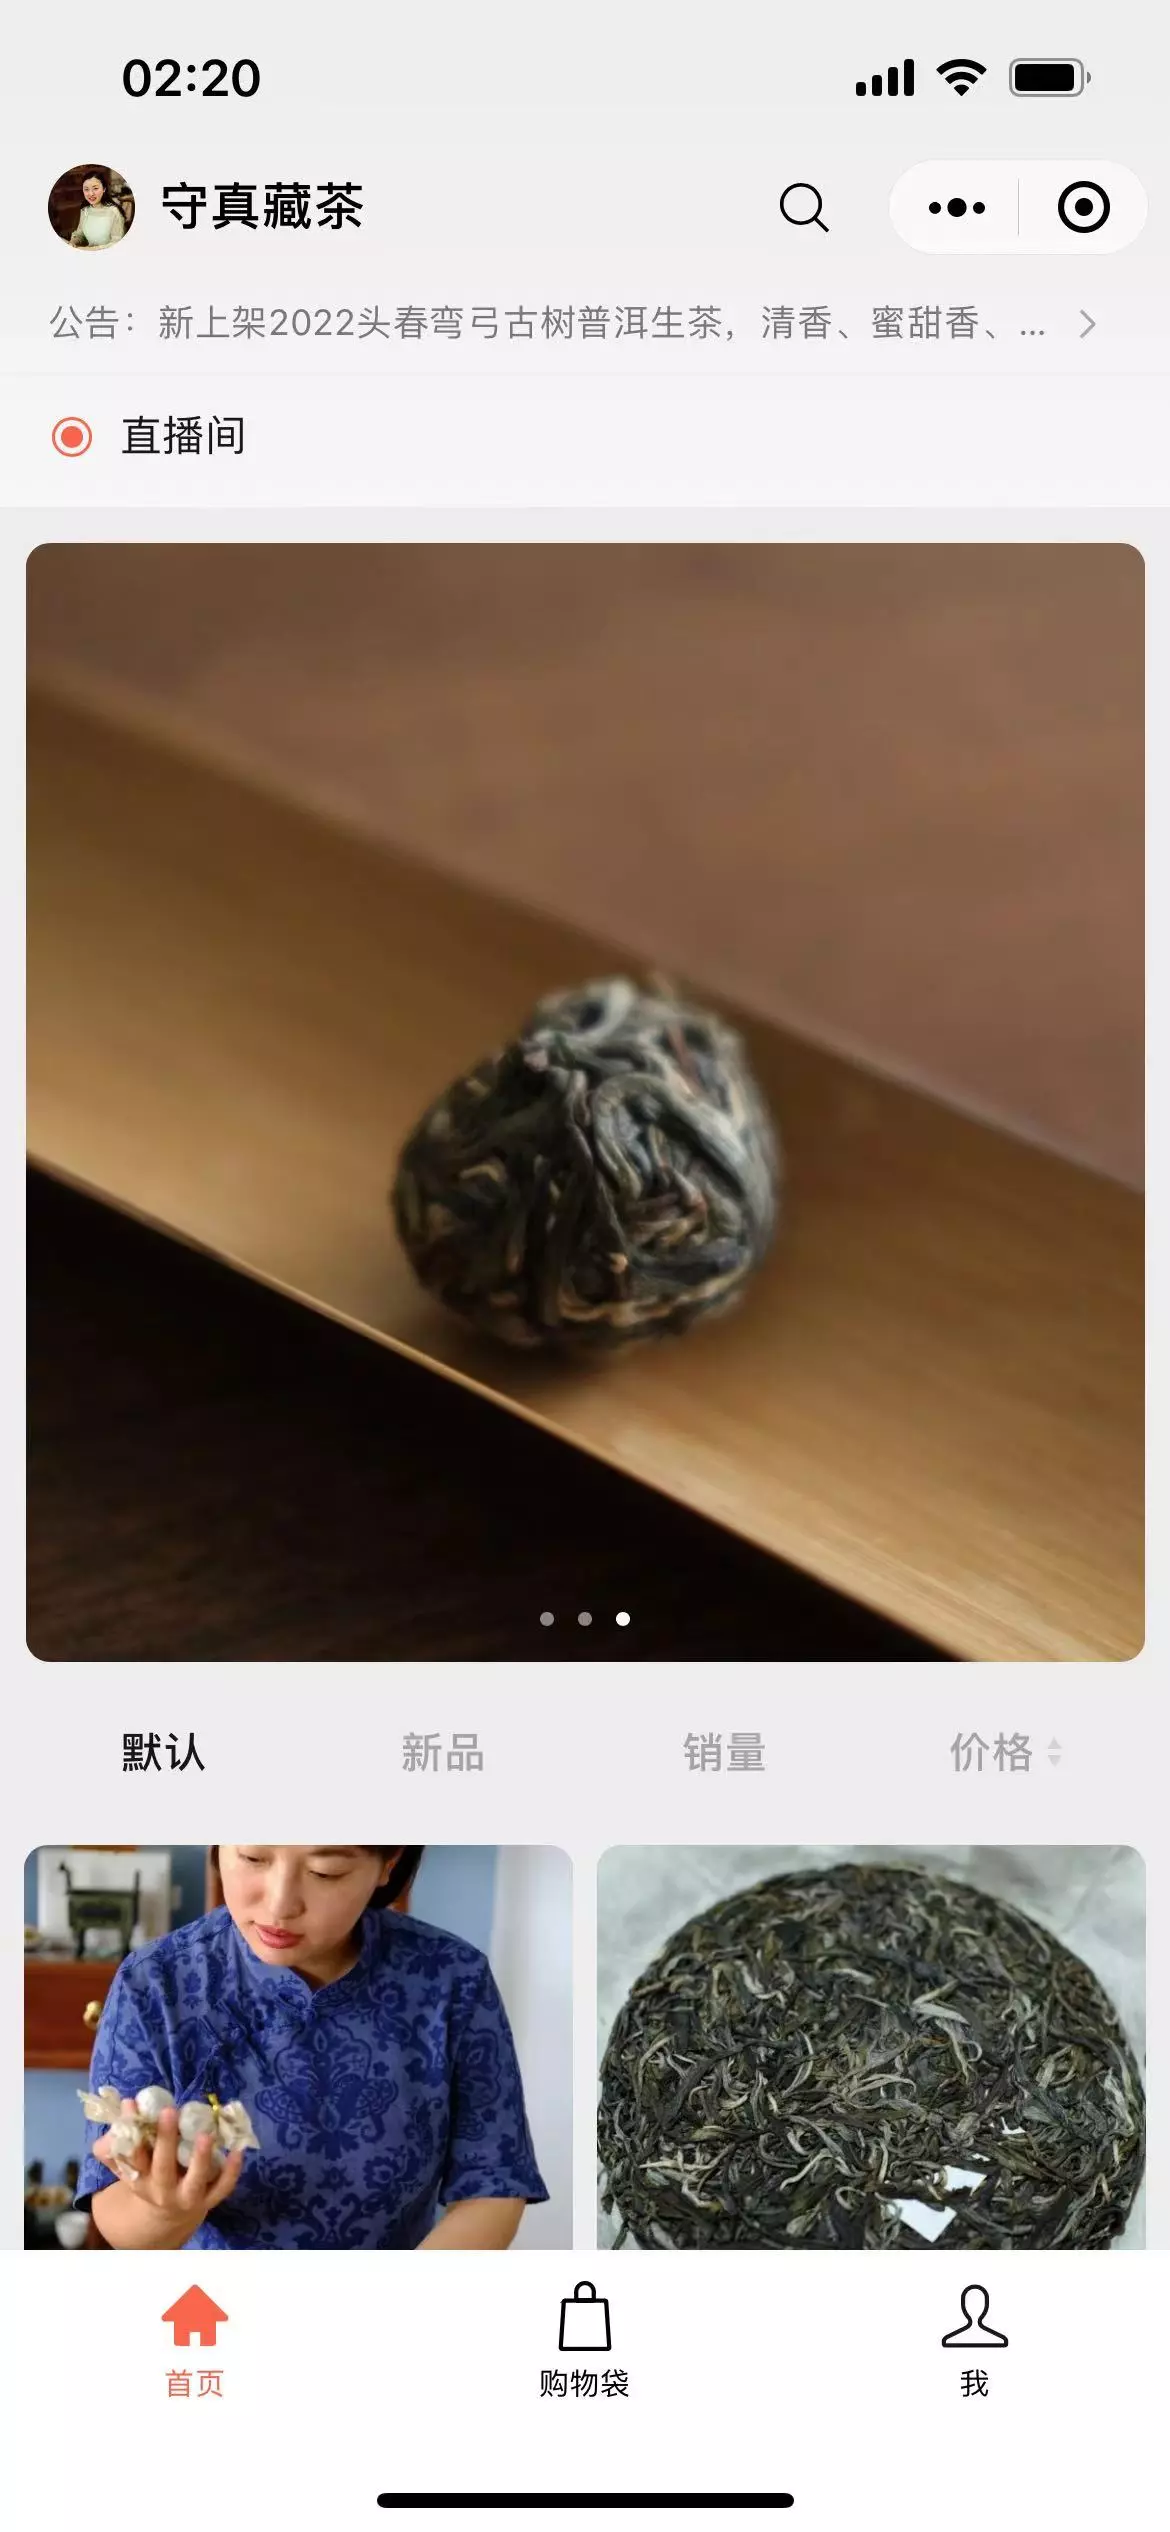
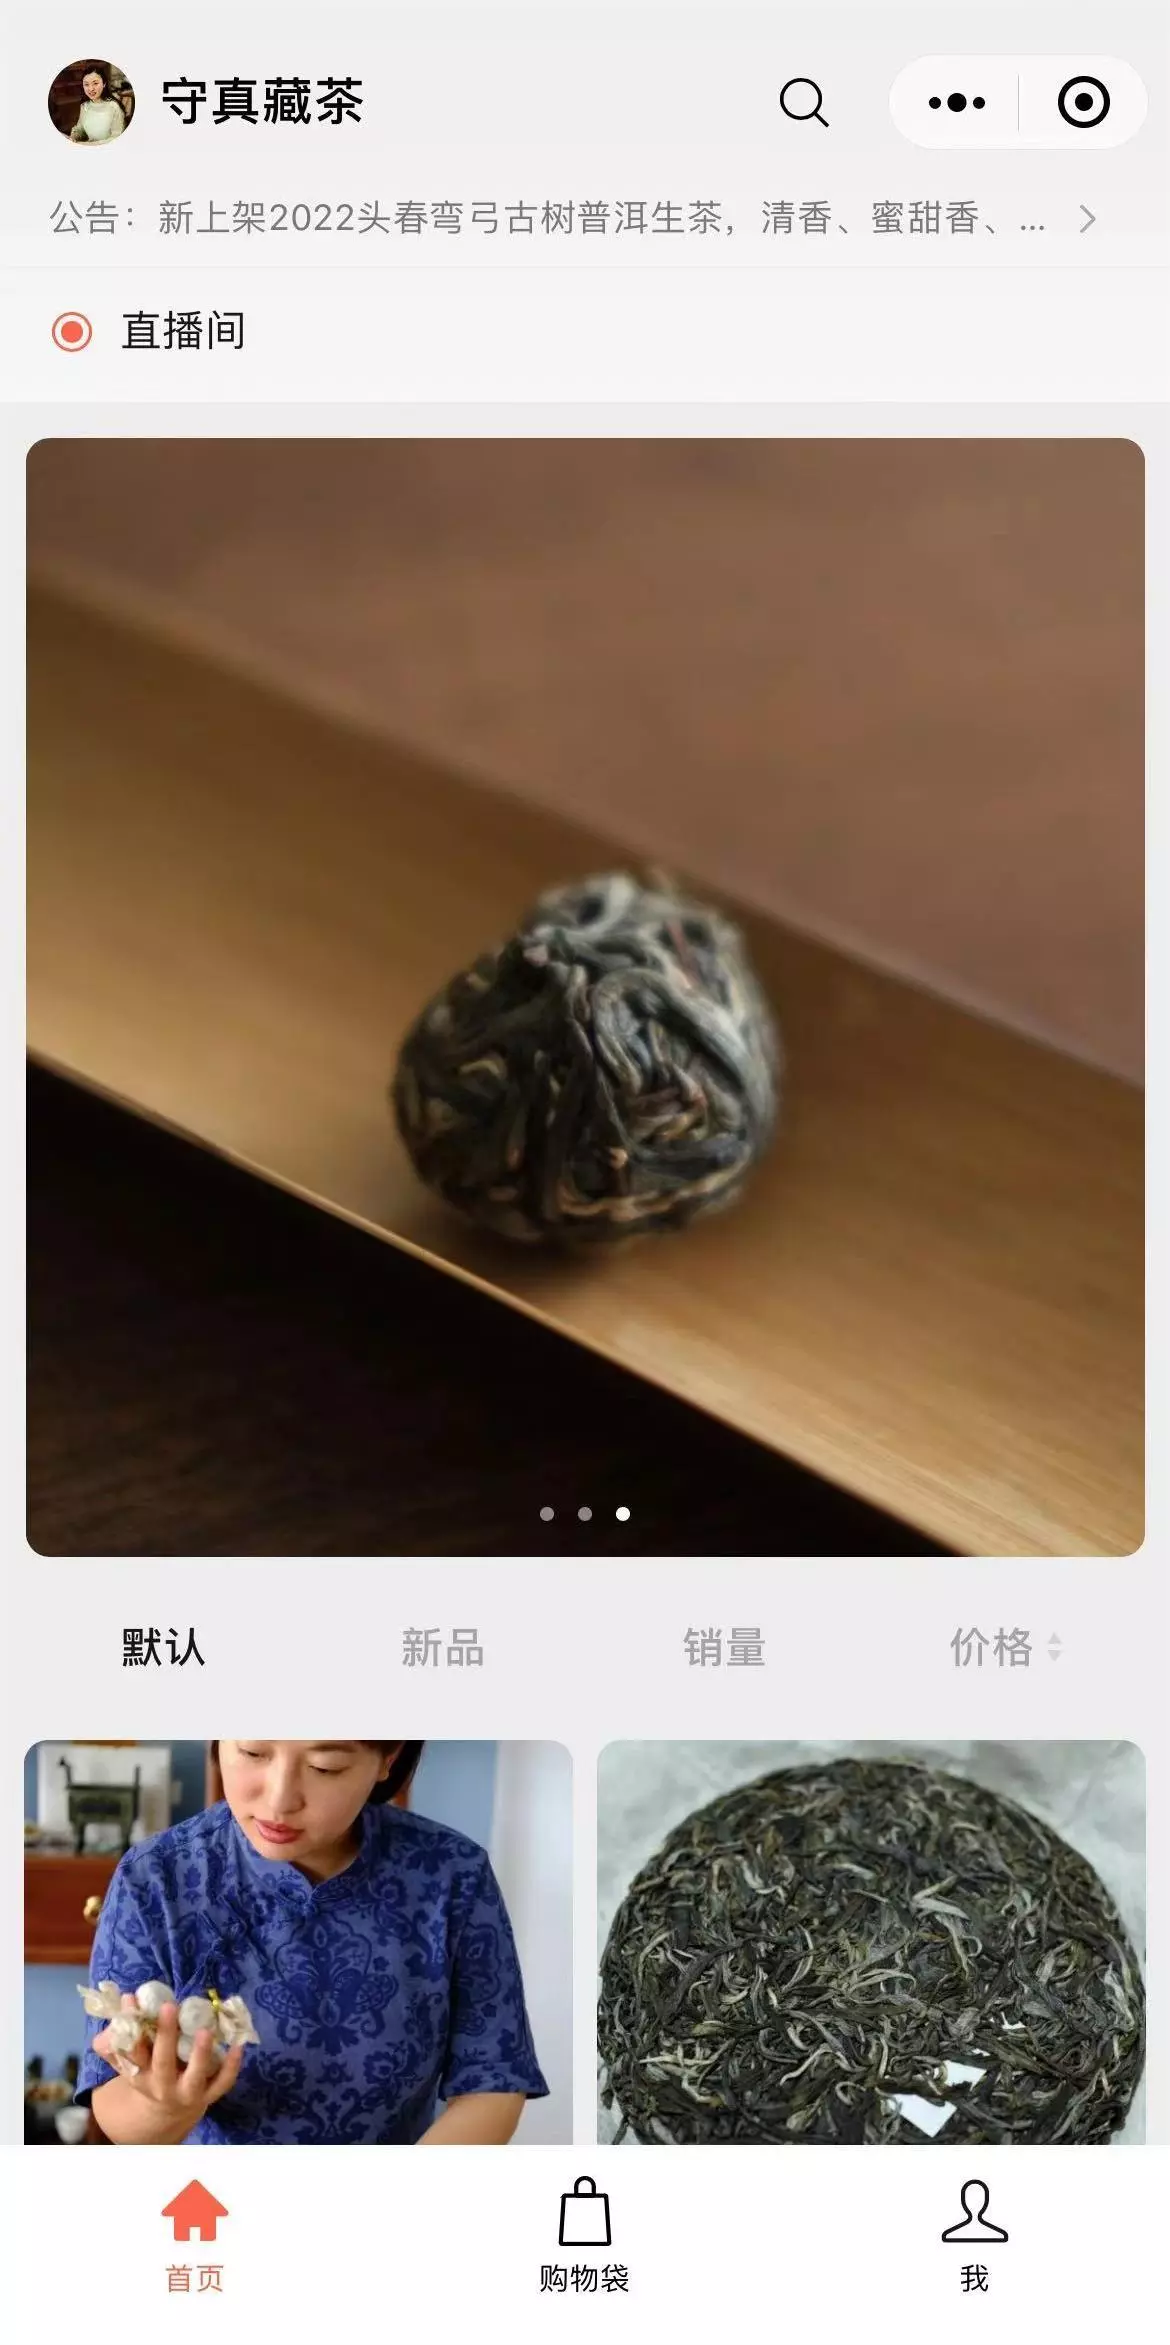
footer

diff --git a/wechat_app.html b/wechat_app.html
@@ -27,7 +27,7 @@ published: true
                     </div>
                 </div>
                 <div class="phone_warp_2">
-                    <img class="phone_img_2" src="./wechat/WeChat_files/img_shop.webp">
+                    <img class="phone_img_2" src="./wechat/WeChat_files/img_shop_long.webp">
                 </div>
             </div>
         </div>

diff --git a/wechat/WeChat_files/css.css b/wechat/WeChat_files/css.css
@@ -76,11 +76,7 @@
 
 @media screen and (max-width:800px) {
 	.down-qrcode {
-		position: absolute;
-		bottom: 0;
-		right: 13.50247%;
-		text-align: center;
-		font-size: 0;
+		display: none;
 	}
 }
 
